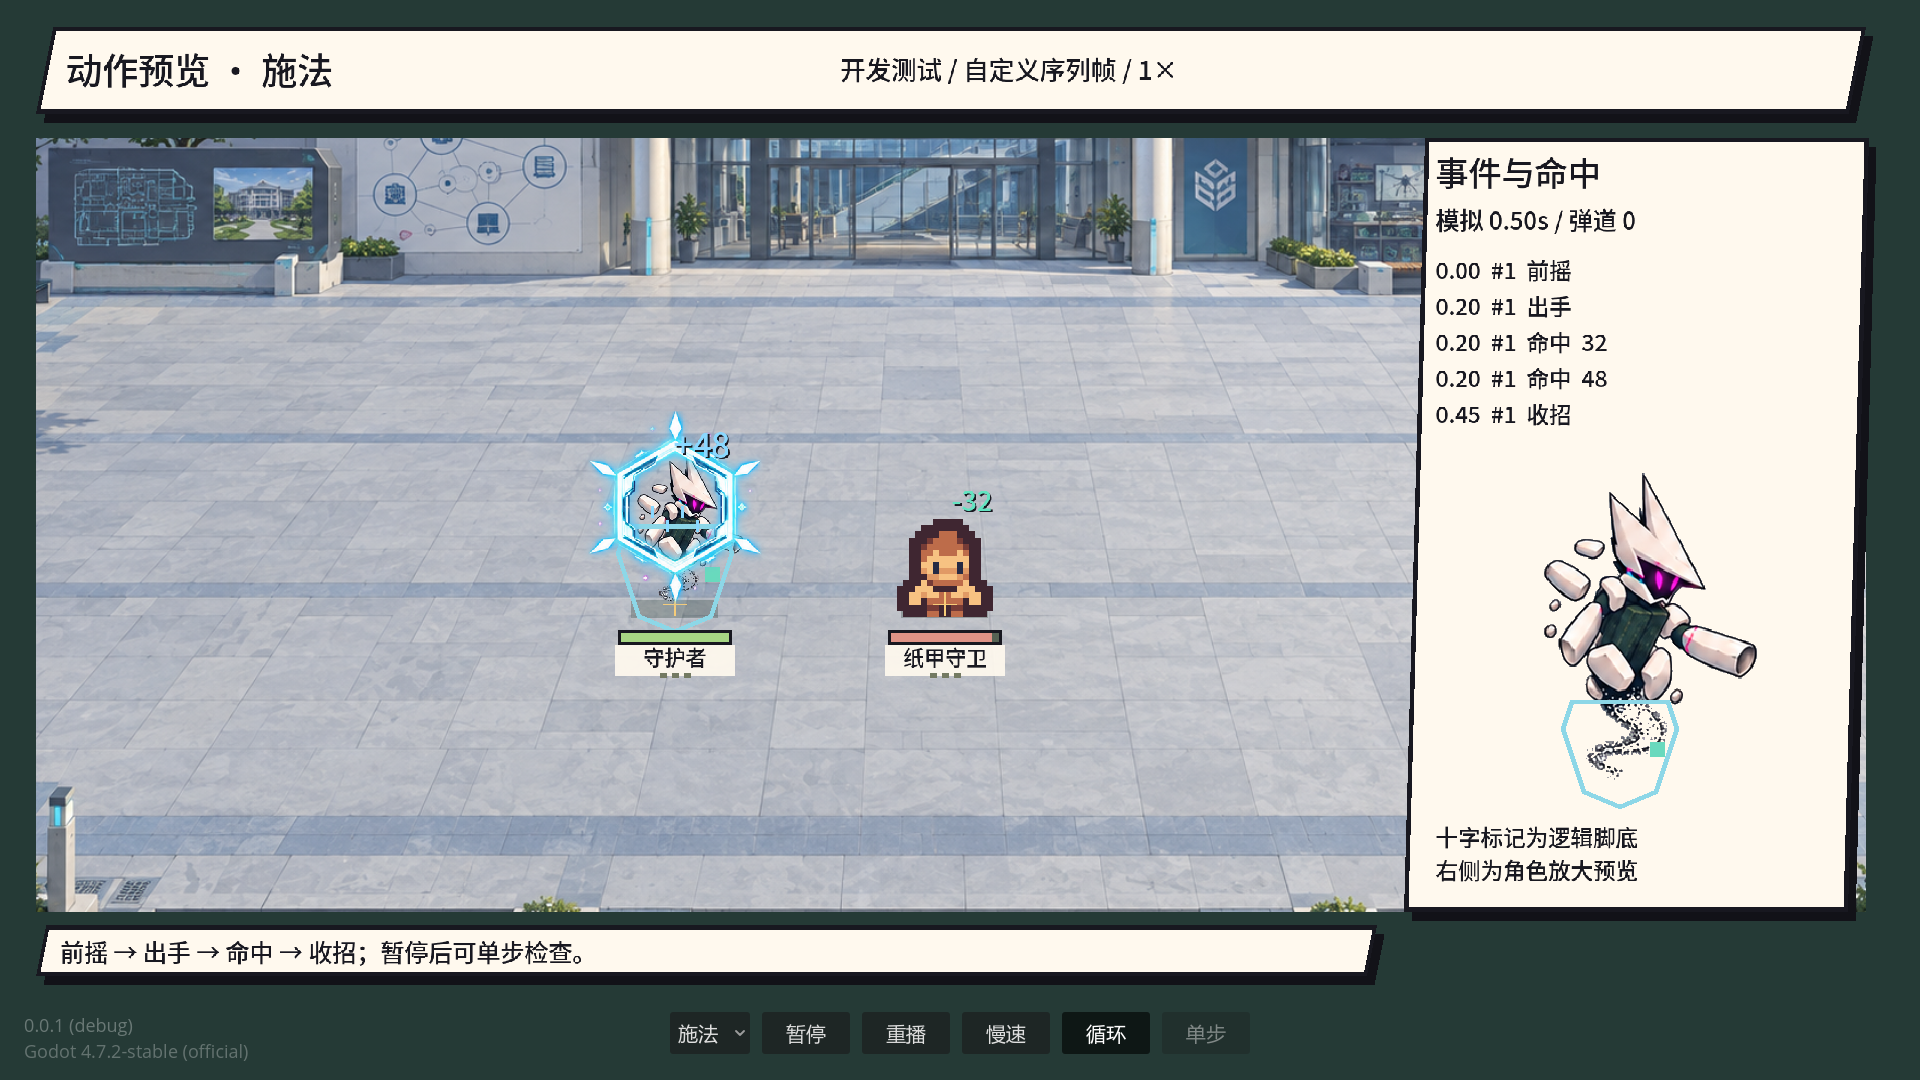
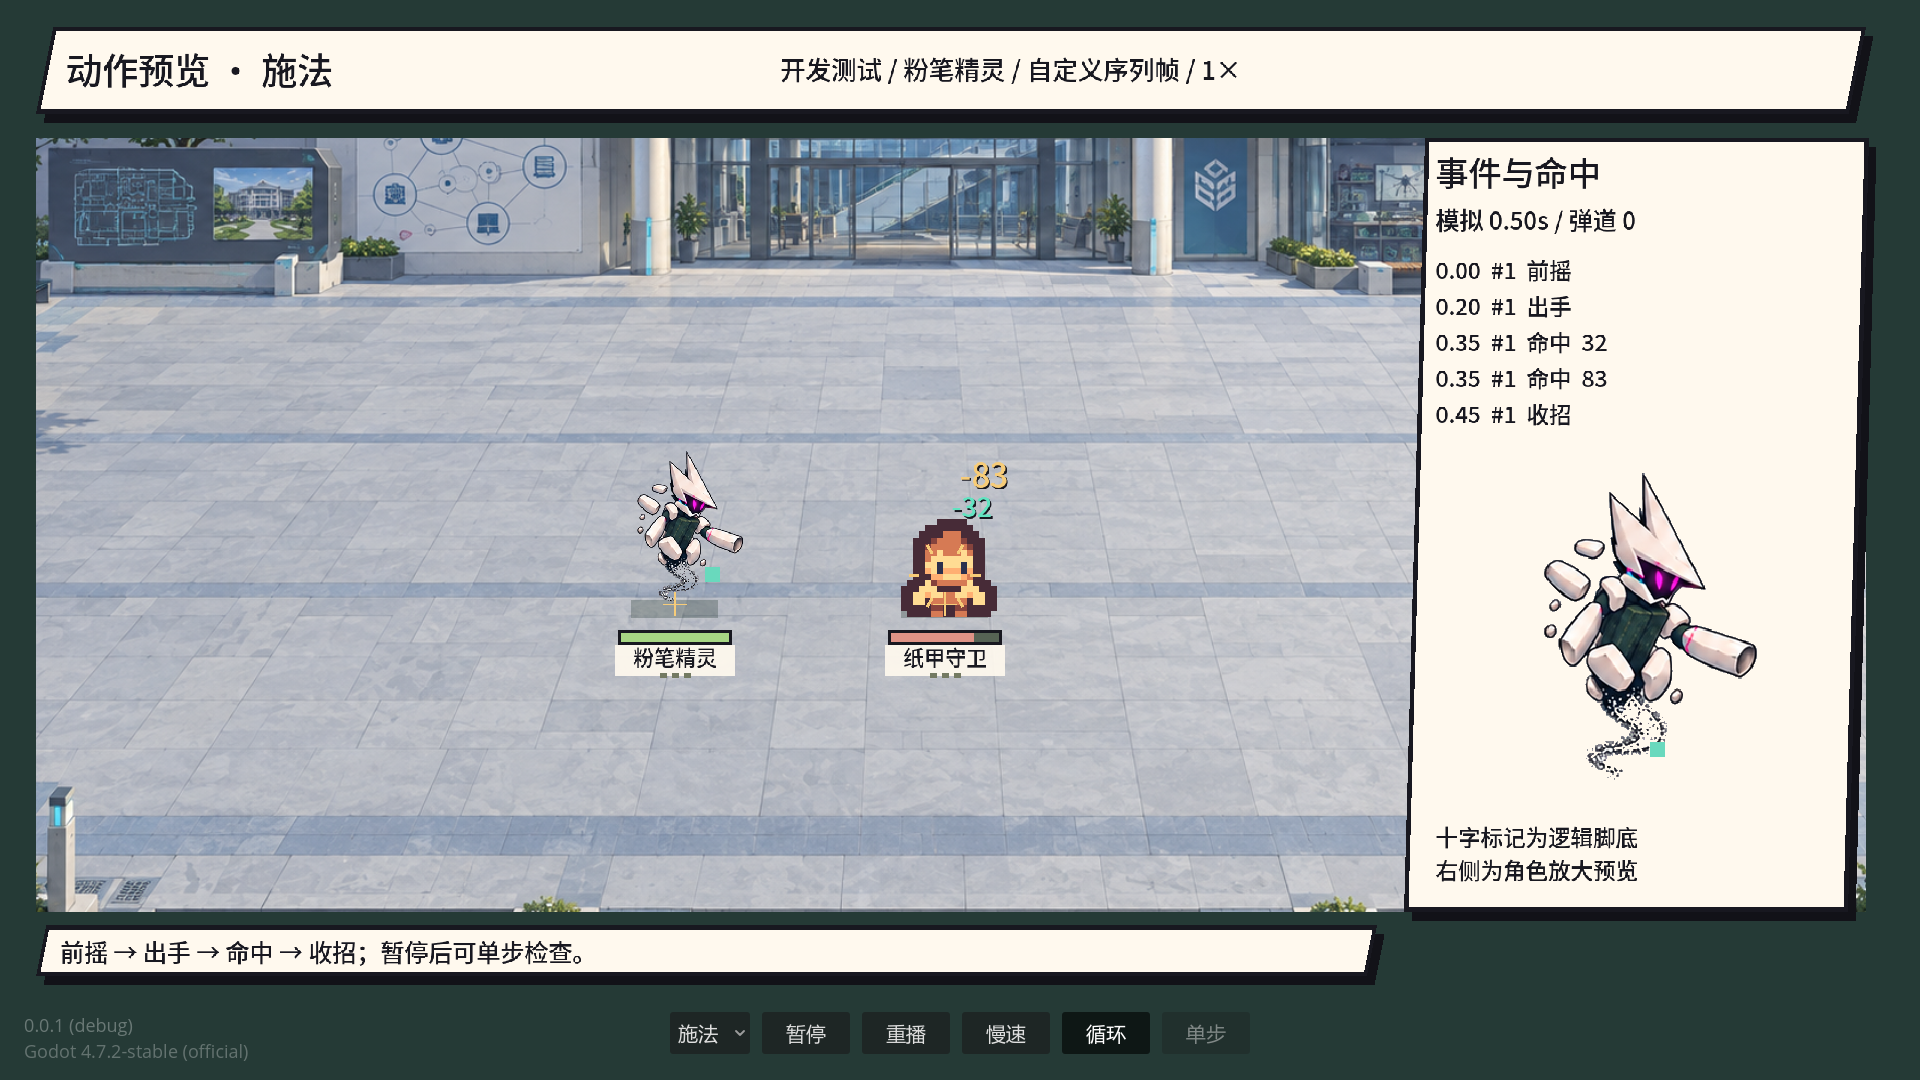
feat: complete character action previews

diff --git a/design/concepts/chalk-spirit/chalk-spirit/003/build_candidate.py b/design/concepts/chalk-spirit/chalk-spirit/003/build_candidate.py
@@ -250,7 +250,7 @@ def write_gif_previews(all_records: dict[str, list[dict]]) -> None:
         for records in all_records.values()
         for record in records
     }
-    for clip in ("move", "attack", "cast", "death"):
+    for clip in CLIPS:
         poses, speed, _loop = CLIPS[clip]
         frames = []
         for pose in poses:

diff --git a/docs/art/tasks/chalk-spirit.md b/docs/art/tasks/chalk-spirit.md
@@ -39,8 +39,8 @@
 - 布局／动画验证：候选 `battle_animation.tres` 已通过独立动作预览的待机、移动、近战、远程、施法、受击、退场七模式检查，`failures=0`；暂停、单步和 0.25×慢速检查通过。已在 1920×1080、2560×1440、1920×1200 捕获攻击、远程、施法、受击、退场共 15 张截图。预览未修改游戏角色定义。
 - 人工视觉评审：技术检查通过不代表动画表现通过。当前 `move` 在移动姿势之间插入第 1 格，`attack`、`cast` 和 `hurt` 又以第 1 格直接起止；Godot 的 `SpriteFrames` 只替换贴图、不自动插值，因此姿势差异会直接表现为抽动。候选 002 据此判定需修改。
 - 003 技术检查：三张最终图集均为 1254×1254、8-bit RGBA；全透明占比分别为 83.71%、86.66%、84.80%。44 格均非空，真实透明沟槽切分后的最小格边安全距离为 23 像素，最大裁切区域 264×285，小于 352×352 统一画布。
-- 003 布局／动画验证：候选 `battle_animation.tres` 通过待机、移动、近战、远程、施法、受击、退场七模式检查，`failures=0`；完成暂停、单步、0.25×慢速和 1920×1080、2560×1440、1920×1200 三分辨率捕获。动作专属 GIF 用于直接比较连续性，运行预览没有修改正式角色定义。
-- 003 评审证据：[移动 GIF](../../../design/concepts/chalk-spirit/chalk-spirit/003/review/move-preview.gif)、[远程 GIF](../../../design/concepts/chalk-spirit/chalk-spirit/003/review/attack-preview.gif)、[施法 GIF](../../../design/concepts/chalk-spirit/chalk-spirit/003/review/cast-preview.gif)、[退场 GIF](../../../design/concepts/chalk-spirit/chalk-spirit/003/review/death-preview.gif)、[头像裁切](../../../design/concepts/chalk-spirit/chalk-spirit/003/review/portrait-preview.png)、[远程运行截图](../../../design/concepts/chalk-spirit/chalk-spirit/003/review/motion-preview-3-1920x1080.png)、[施法运行截图](../../../design/concepts/chalk-spirit/chalk-spirit/003/review/motion-preview-4-1920x1080.png)、[受击运行截图](../../../design/concepts/chalk-spirit/chalk-spirit/003/review/motion-preview-5-1920x1080.png)、[退场运行截图](../../../design/concepts/chalk-spirit/chalk-spirit/003/review/motion-preview-6-1920x1080.png)、[检查日志](../../../design/concepts/chalk-spirit/chalk-spirit/003/review/motion-preview-check.log)与[捕获日志](../../../design/concepts/chalk-spirit/chalk-spirit/003/review/motion-preview-capture.log)。
+- 003 布局／动画验证：候选 `battle_animation.tres` 使用粉笔精灵角色元数据检查待机、移动、远程、施法、受击、濒危、退场七个可用模式，近战入口按远程能力置灰，`failures=0`；完成暂停、单步、0.25×慢速和 1920×1080、2560×1440、1920×1200 三分辨率捕获。七个动作片段均提供专属 GIF 以直接比较连续性，运行预览没有修改正式角色定义。
+- 003 评审证据：[待机 GIF](../../../design/concepts/chalk-spirit/chalk-spirit/003/review/idle-preview.gif)、[移动 GIF](../../../design/concepts/chalk-spirit/chalk-spirit/003/review/move-preview.gif)、[远程 GIF](../../../design/concepts/chalk-spirit/chalk-spirit/003/review/attack-preview.gif)、[施法 GIF](../../../design/concepts/chalk-spirit/chalk-spirit/003/review/cast-preview.gif)、[受击 GIF](../../../design/concepts/chalk-spirit/chalk-spirit/003/review/hurt-preview.gif)、[濒危 GIF](../../../design/concepts/chalk-spirit/chalk-spirit/003/review/critical-preview.gif)、[退场 GIF](../../../design/concepts/chalk-spirit/chalk-spirit/003/review/death-preview.gif)、[头像裁切](../../../design/concepts/chalk-spirit/chalk-spirit/003/review/portrait-preview.png)、[远程运行截图](../../../design/concepts/chalk-spirit/chalk-spirit/003/review/motion-preview-3-1920x1080.png)、[施法运行截图](../../../design/concepts/chalk-spirit/chalk-spirit/003/review/motion-preview-4-1920x1080.png)、[受击运行截图](../../../design/concepts/chalk-spirit/chalk-spirit/003/review/motion-preview-5-1920x1080.png)、[濒危运行截图](../../../design/concepts/chalk-spirit/chalk-spirit/003/review/motion-preview-6-1920x1080.png)、[退场运行截图](../../../design/concepts/chalk-spirit/chalk-spirit/003/review/motion-preview-7-1920x1080.png)、[检查日志](../../../design/concepts/chalk-spirit/chalk-spirit/003/review/motion-preview-check.log)与[捕获日志](../../../design/concepts/chalk-spirit/chalk-spirit/003/review/motion-preview-capture.log)。
[1 lines of base64/hex data omitted]
 - 已知验证噪声：Godot 报告既有根证书读取错误及 `tiny-town.png`／`tiny-dungeon.png` 编辑器原图加载警告；完成标记、专项断言和候选纹理加载均正常。
 - 未解决问题：等待候选 003 人工资产评审；通过后才登记正式 Manifest 并进入接入阶段。

diff --git a/docs/battle-animation.md b/docs/battle-animation.md
@@ -45,9 +45,10 @@
 
 ## 独立动作预览
 
-PowerShell 7 运行 `pwsh.exe -File ./run-motion-preview.ps1`；可选择待机、移动、近战、远程、施法、受击、退场，支持重播、0.25×慢速、循环、暂停和单步（0.05 秒）。右侧显示动作编号、事件时间与命中结果，并放大显示当前角色；十字为逻辑脚底。使用现有主题与战场组件，无存档读写，不修改人物定义。
+PowerShell 7 运行 `pwsh.exe -File ./run-motion-preview.ps1`；可选择待机、移动、近战、远程、施法、受击、濒危、退场，支持重播、0.25×慢速、循环、暂停和单步（0.05 秒）。右侧显示动作编号、事件时间与命中结果，并放大显示当前角色；十字为逻辑脚底。使用现有主题与战场组件，无存档读写，不修改人物定义。
 
-- `-Check` 自动验证七种模式；`-Capture` 输出三种分辨率下的近战、远程、受击、退场截图；`-Tour` 连续展示七种模式后退出。
+- `-Unit 'res://路径/角色资源.tres'` 加载角色元数据；近战、远程入口根据 `attack_modes` 置灰。旧资源未显式配置时，从 `action_profile` 与 `attack_range` 推断；未来双能力角色配置为近战与远程均可用。
+- `-Check` 自动验证八种模式及入口可用性；`-Capture` 输出三种分辨率下当前角色支持的攻击、施法、受击、濒危、退场截图；`-Tour` 连续展示可用模式后退出。
 - `-Animation 'res://路径/动画资源.tres'` 为预览角色加载一个 `BattleAnimationSet`，不覆盖正式角色定义。未传入时使用角色定义中的当前战斗动画，未配置的角色才回退旧占位图。
 - Godot 内置 Movie Maker 可录制：`--write-movie .godot/battle-motion-preview.avi --fixed-fps 60 res://scenes/battle_demo/motion_preview.tscn -- --motion-preview-tour`。运行预览时还可直接在编辑器观察动画。
 

diff --git a/docs/battle-demo.md b/docs/battle-demo.md
@@ -34,7 +34,7 @@ pwsh.exe -File .\run-battle-demo.ps1
 ## 自走棋战斗规则
 
 - 保留六个战前布阵位；开战后双方在 7×7 逻辑场地自动行动。格距采用场景投影，射程按逻辑格的欧氏距离计算。
-- 近战默认射程 1.45 格，远射手、应援者、发明家、晨光及对应远程敌人为 3.2 格；默认移速 2.4 格/秒。在人物资源中编辑 `attack_range` / `move_speed`。
+- 近战默认射程 1.45 格，远射手、应援者、发明家、晨光及对应远程敌人为 3.2 格；默认移速 2.4 格/秒。在人物资源中编辑 `attack_range` / `move_speed`。`attack_modes` 记录近战、远程或两者兼具的能力；旧资源值为 0 时按 `action_profile` 和射程推断。
 - 射程内保留现有目标，没有有效目标时优先选择最近的范围内敌人；没有可攻击敌人时，用广度优先搜索寻找最近的可达攻击位置，自动绕开友军与敌军。相同距离按稳定的单位和方向顺序选择。
 - 行走时保留起点和目的格的占位，不穿人、不交换穿越；受阻时等待并重算，死亡单位立即释放占位。移动结束后才能攻击，冷却在移动中恢复，但不会累积连发。
 - 普攻与单体伤害技能受射程限制。后排优先按实时纵向位置判断；整排技能作用于当前目标横向带状范围（纵向差不超过半格）且在射程内的敌人。护盾作用于自身及约两格内友军；治疗与明确配置的全体技能保持全队作用域。

diff --git a/design/concepts/chalk-spirit/chalk-spirit/003/generation.md b/design/concepts/chalk-spirit/chalk-spirit/003/generation.md
@@ -6,6 +6,7 @@
 - 身份参考：已批准的 `../001/chalk_spirit_concept_001.png`
 - 动作参考：候选 002 仅用于识别上一版问题，不继承其混合朝向与第 1 格通用过渡
 - 可复现处理：`build_candidate.py`
+- 本机复现命令：使用包含 Pillow 与 NumPy 的 Python 3 运行 `build_candidate.py`；本工作区的裸 `python` 指向 Python 2.7，不能用于本脚本。
 
 ## 修订目标
 
